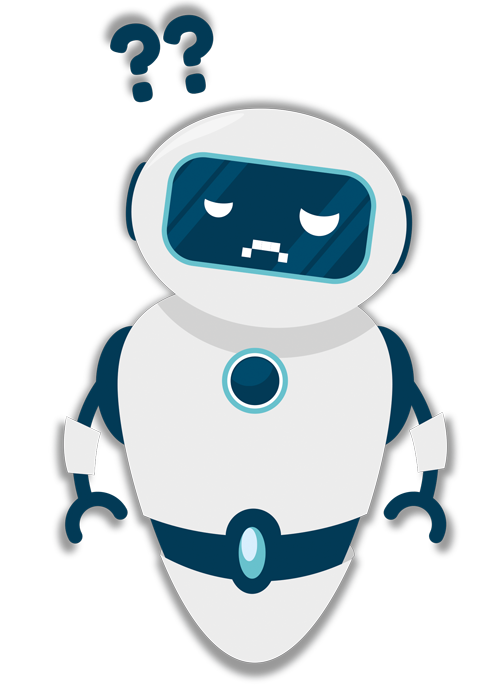
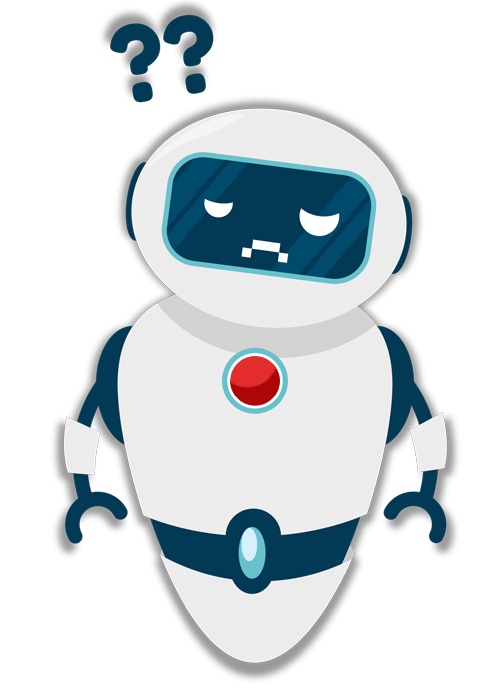
P2: Added Annyang start screen. (I had so much trouble finding my way around this...but it works!) I also slightly changed the sad robot image.

Changed region(s): [[0.4592, 0.51, 0.5816, 0.6]]

diff --git a/Projects/Project2/js/script.js b/Projects/Project2/js/script.js
@@ -28,93 +28,117 @@ let $trashRapeShirt;
 let timer;
 // Variable for the number value of the dragged trash image.
 let currentDraggable = 0;
+let $command = "I am ready";
+// The start screen <div> with Annyang directions.
+let startScreen;
+
 
 $(document).ready(setup);
 
 function setup() {
-  // Responsive voice with welcome message and directions.
+
+
+// Responsive voice with welcome message and directions.
+setTimeout(function() {
   responsiveVoice.speak(
     "Welcome human survivor. Click the mouse for some mood music.",
-    "UK English Female", {
+    "UK English Female",
+    {
       pitch: 0.5,
       rate: 1
-    });
-  // setTimeout function to create a pause between responsive voice dialogue.
-  setTimeout(function() {
-    // Responsive voice with welcome message and directions.
-    responsiveVoice.speak(
-      "Good. Now let us begin. I am from the future. The year 3021 to be exact. Please help me understand the decimation of human intelligence by feeding me your in-ternet garbage",
-      "UK English Female", {
-        pitch: 0.5,
-        rate: 1
-      })
-  }, 7700);  // Ammount of time before the robot speaks again.
-  $robot = $("#robot");
-  $robot.droppable({
-    // The drop option specifies a function to call when a drop is completed.
-    drop: onDrop
-  });
+    }
+  );
+}, 5000); // Ammount of time before the robot speaks for the first time to give enough time for the user to talk to annyang.
 
-  // The "trash" elements are made draggable and are assigned a number.
-  $trashFingerPuppet = $("#trashFingerPuppet");
-  $trashFingerPuppet.draggable({
-    revert: true,
-    revertDuration: 500,
-    start: function() {
-      trashSound.play();
-    },
-    stop: function() {
-      trashSound.pause();
-    },
-    drag: function(event, ui) {
-      currentDraggable = 1;
+// setTimeout function to create a pause between responsive voice dialogue.
+setTimeout(function() {
+  // Responsive voice with welcome message and directions.
+  responsiveVoice.speak(
+    "Good. Now let us begin. I am from the future. The year 3021 to be exact. Please help me understand the decimation of human intelligence by feeding me your in-ternet garbage",
+    "UK English Female",
+    {
+      pitch: 0.5,
+      rate: 1
     }
-  });
-// Head switch
-  $trashHeadSwitch = $("#trashHeadSwitch");
-  $trashHeadSwitch.draggable({
-    revert: true,
-    revertDuration: 500,
-    start: function() {
-      trashSound.play();
-    },
-    stop: function() {
-      trashSound.pause();
-    },
-    drag: function(event, ui) {
-      currentDraggable = 2;
-    }
-  });
+  );
+}, 10000); // Ammount of time before the robot speaks again.
+$robot = $("#robot");
+$robot.droppable({
+  // The drop option specifies a function to call when a drop is completed.
+  drop: onDrop
+});
 
-  $trashRandomGenerator = $("#trashRandomGenerator");
-  $trashRandomGenerator.draggable({
-    revert: true,
-    revertDuration: 500,
-    start: function() {
-      trashSound.play();
-    },
-    stop: function() {
-      trashSound.pause();
-    },
-    drag: function(event, ui) {
-      currentDraggable = 3;
-    }
-  });
+// The "trash" elements are made draggable and are assigned a number.
+$trashFingerPuppet = $("#trashFingerPuppet");
+$trashFingerPuppet.draggable({
+  revert: true,
+  revertDuration: 500,
+  start: function() {
+    trashSound.play();
+  },
+  stop: function() {
+    trashSound.pause();
+  },
+  drag: function(event, ui) {
+    currentDraggable = 1;
+  }
+});
 
-  $trashRapeShirt = $("#trashRapeShirt");
-  $trashRapeShirt.draggable({
-    revert: true,
-    revertDuration: 500,
-    start: function() {
-      trashSound.play();
-    },
-    stop: function() {
-      trashSound.pause();
-    },
-    drag: function(event, ui) {
-      currentDraggable = 4;
-    }
-  });
+$trashHeadSwitch = $("#trashHeadSwitch");
+$trashHeadSwitch.draggable({
+  revert: true,
+  revertDuration: 500,
+  start: function() {
+    trashSound.play();
+  },
+  stop: function() {
+    trashSound.pause();
+  },
+  drag: function(event, ui) {
+    currentDraggable = 2;
+  }
+});
+
+$trashRandomGenerator = $("#trashRandomGenerator");
+$trashRandomGenerator.draggable({
+  revert: true,
+  revertDuration: 500,
+  start: function() {
+    trashSound.play();
+  },
+  stop: function() {
+    trashSound.pause();
+  },
+  drag: function(event, ui) {
+    currentDraggable = 3;
+  }
+});
+
+$trashRapeShirt = $("#trashRapeShirt");
+$trashRapeShirt.draggable({
+  revert: true,
+  revertDuration: 500,
+  start: function() {
+    trashSound.play();
+  },
+  stop: function() {
+    trashSound.pause();
+  },
+  drag: function(event, ui) {
+    currentDraggable = 4;
+  }
+});
+
+// Annyang -> Making sure it is available.
+let command = {
+  // This hides the start screen <div>.
+  "I am ready": off
+};
+// Annyang commands.
+annyang.addCommands(command);
+
+// Tell annyang to start.
+annyang.start();
 }
 
 $(document).one("click", mouseClick);
@@ -131,41 +155,31 @@ function onDrop(event, ui) {
   timer = setInterval(feedInternet, 250);
   setTimeout(stop, 2000); // The animation between images stops after 2 seconds.
   // Voice message response for each of the trash elements.
-  // Find the right voiceline based on their number.
+  // It finds the right voiceline based on their number.
   if (currentDraggable === 1) {
-    responsiveVoice.speak(
-      "What is this?",
-      "UK English Female", {
-        pitch: 0.5,
-        rate: 1
-      });
-
-  };
+    responsiveVoice.speak("What is this?", "UK English Female", {
+      pitch: 0.5,
+      rate: 1
+    });
+  }
   if (currentDraggable === 2) {
-    responsiveVoice.speak(
-      "This makes me sad.",
-      "UK English Female", {
-        pitch: 0.5,
-        rate: 1
-      });
-
-  };
+    responsiveVoice.speak("This makes me sad.", "UK English Female", {
+      pitch: 0.5,
+      rate: 1
+    });
+  }
   if (currentDraggable === 3) {
-    responsiveVoice.speak(
-      "Why?",
-      "UK English Female", {
-        pitch: 0.5,
-        rate: 1
-      });
-  };
+    responsiveVoice.speak("Why?", "UK English Female", {
+      pitch: 0.5,
+      rate: 1
+    });
+  }
   if (currentDraggable === 4) {
-    responsiveVoice.speak(
-      "System...failing...",
-      "UK English Female", {
-        pitch: 0.5,
-        rate: 1
-      });
-  };
+    responsiveVoice.speak("System...failing...", "UK English Female", {
+      pitch: 0.5,
+      rate: 1
+    });
+  }
 }
 
 // Function that creates a small animation between the images when the robot is fed internet garbage.
@@ -181,4 +195,9 @@ function feedInternet() {
 function stop() {
   clearInterval(timer);
   $robot.attr("src", "assets/images/robotNormal.gif");
+}
+
+// This removes the start screen.
+function off() {
+document.getElementById("startscreen").style.display = "none";
 }

diff --git a/Projects/Project2/index.html b/Projects/Project2/index.html
@@ -37,10 +37,16 @@
     <!-- ResponsiveVoice -->
     <script src="https://code.responsivevoice.org/responsivevoice.js"></script>
 
+    <!-- Annyang -->
+<script src="//cdnjs.cloudflare.com/ajax/libs/annyang/2.6.0/annyang.min.js"></script>
+
     <!-- My script(s) -->
     <script src="js/script.js"></script>
   </head>
-
+  <!-- Start Screen -->
+    <div id="startscreen" onclick="off()">
+      <h1>Welcome Human Survivor <br><br> Say, "I am ready" to enter the future. <br> </h1>
+    </div>
   <!-- Here is the audio tag that contains the sounds. -->
   <audio>
     <source src="assets/sounds/backgroundMusic.mp3" type="audio/mpeg" />
@@ -62,21 +68,25 @@
     />
   <img
     id="trashFingerPuppet"
+    class="trashFingerPuppet"
     src="assets/images/trashFingerPuppet.png"
     style="position:absolute; top:35px; left:50px;"
   />
   <img
     id="trashHeadSwitch"
+    class="trashHeadSwitch"
     src="assets/images/trashHeadSwitch.png"
     style="position:absolute; bottom:35px; left:50px;"
   />
   <img
     id="trashRandomGenerator"
+    class="trashRandomGenerator"
     src="assets/images/trashRandomGenerator.png"
     style="position:absolute; top:35px; left:1000px;"
   />
   <img
     id="trashRapeShirt"
+    class="trashRapeShirt"
     src="assets/images/trashRapeShirt.png"
     style="position:absolute; bottom:35px; left:1000px;"
   />

diff --git a/Projects/Project2/css/style.css b/Projects/Project2/css/style.css
@@ -1,3 +1,18 @@
-body {
-
+#startscreen {
+  position: fixed;
+  display: block;
+  width: 100%;
+  height: 100%;
+  top: 0;
+  left: 0;
+  right: 0;
+  bottom: 0;
+  background-color: rgba(0, 0, 0, 0.5);
+/* The z-index is so the start page appears on top of the elements and not behind */
+  z-index: 2;
+  font-size: 25px;
+  text-align: center;
+  padding-top: 150px;
+  font-family: Courier;
+  color: white;
 }
